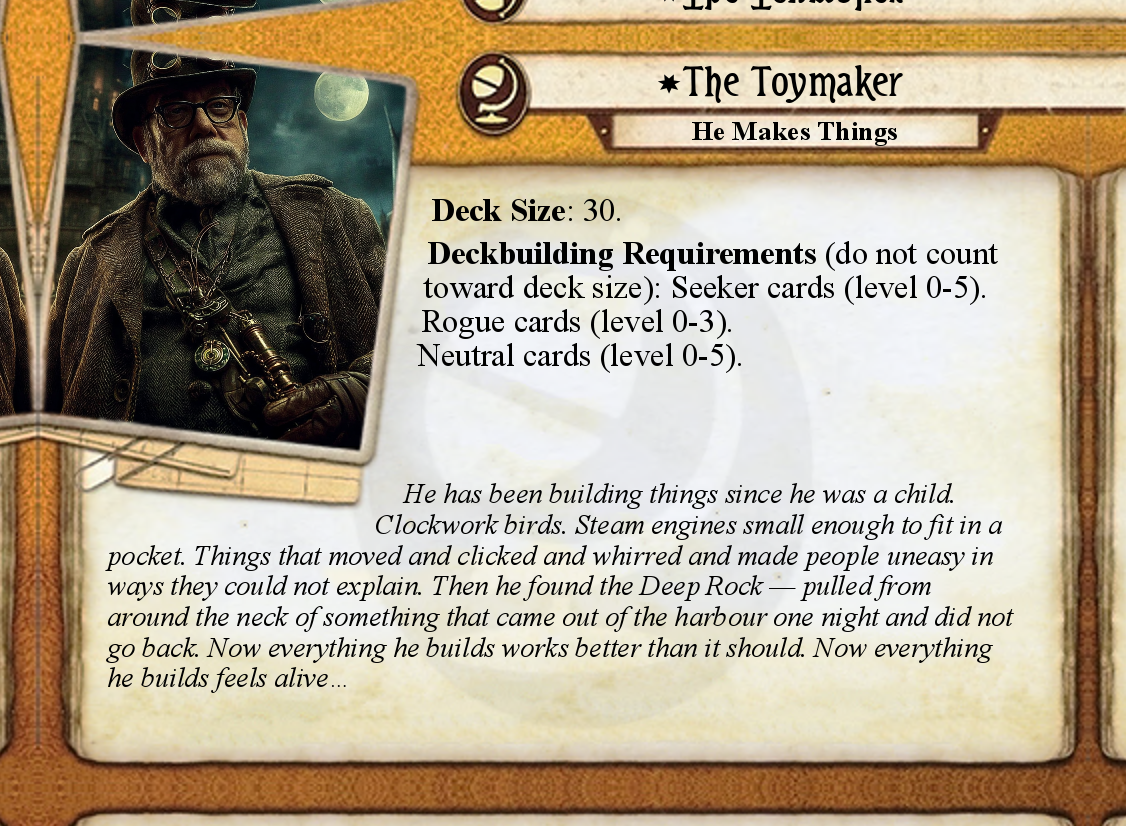
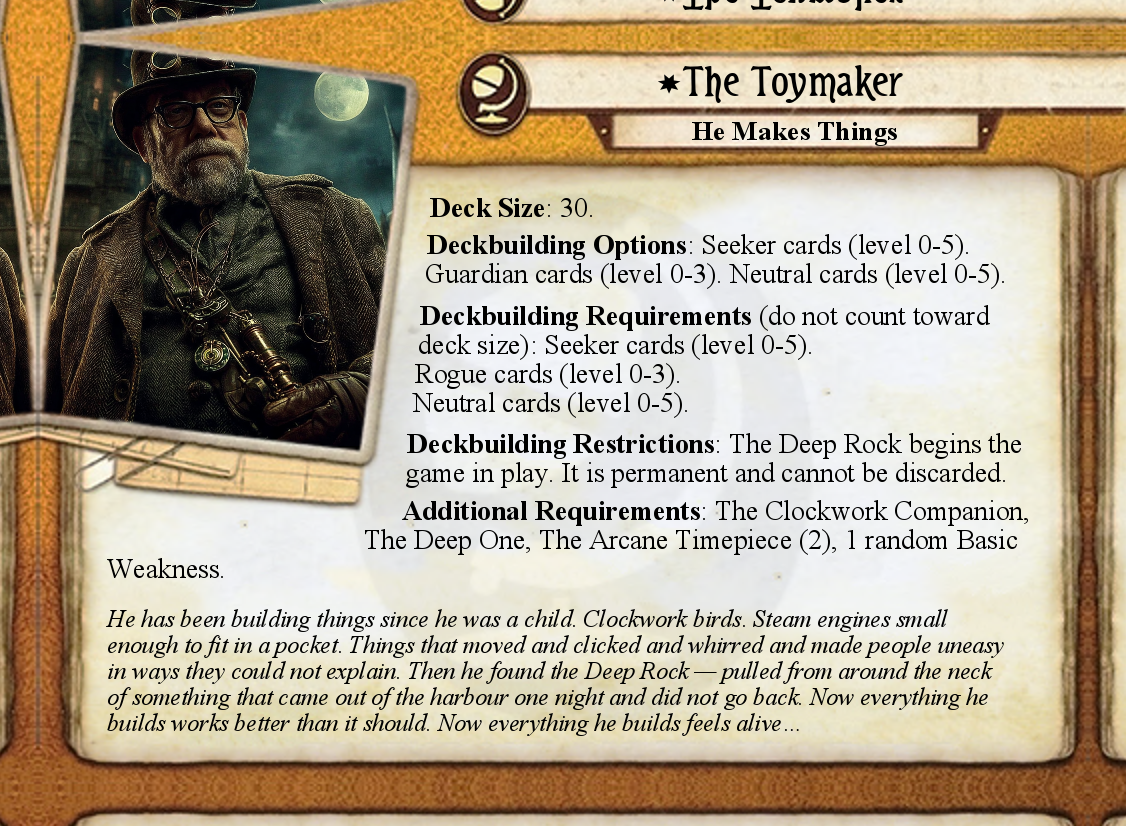
The Toymaker 001: Card-Data locked, new exports renamed correctly -- EON preserved

Changed region(s): [[0.0933, 0.2421, 0.9014, 0.908]]

diff --git a/games/arkham-lcg/investigators/custom-1/The Toymaker/The-Toymaker-Card-Data.md b/games/arkham-lcg/investigators/custom-1/The Toymaker/The-Toymaker-Card-Data.md
@@ -57,12 +57,27 @@ should. Now everything he builds
 feels like it is waiting for something.
 ```
 
-### Deckbuilding
+### Deckbuilding Options
 ```
 Deck size: 30.
 Seeker cards (level 0-5).
-Rogue cards (level 0-3).
+Guardian cards (level 0-3).
 Neutral cards (level 0-5).
+```
+
+### Deckbuilding Restrictions
+```
+The Deep Rock begins the game in
+play. It is permanent and cannot
+be discarded.
+```
+
+### Deckbuilding Requirements
+```
+(do not count toward deck size)
+The Clockwork Companion, The Deep One,
+The Arcane Timepiece (2),
+1 random Basic Weakness.
 ```
 
 ---
